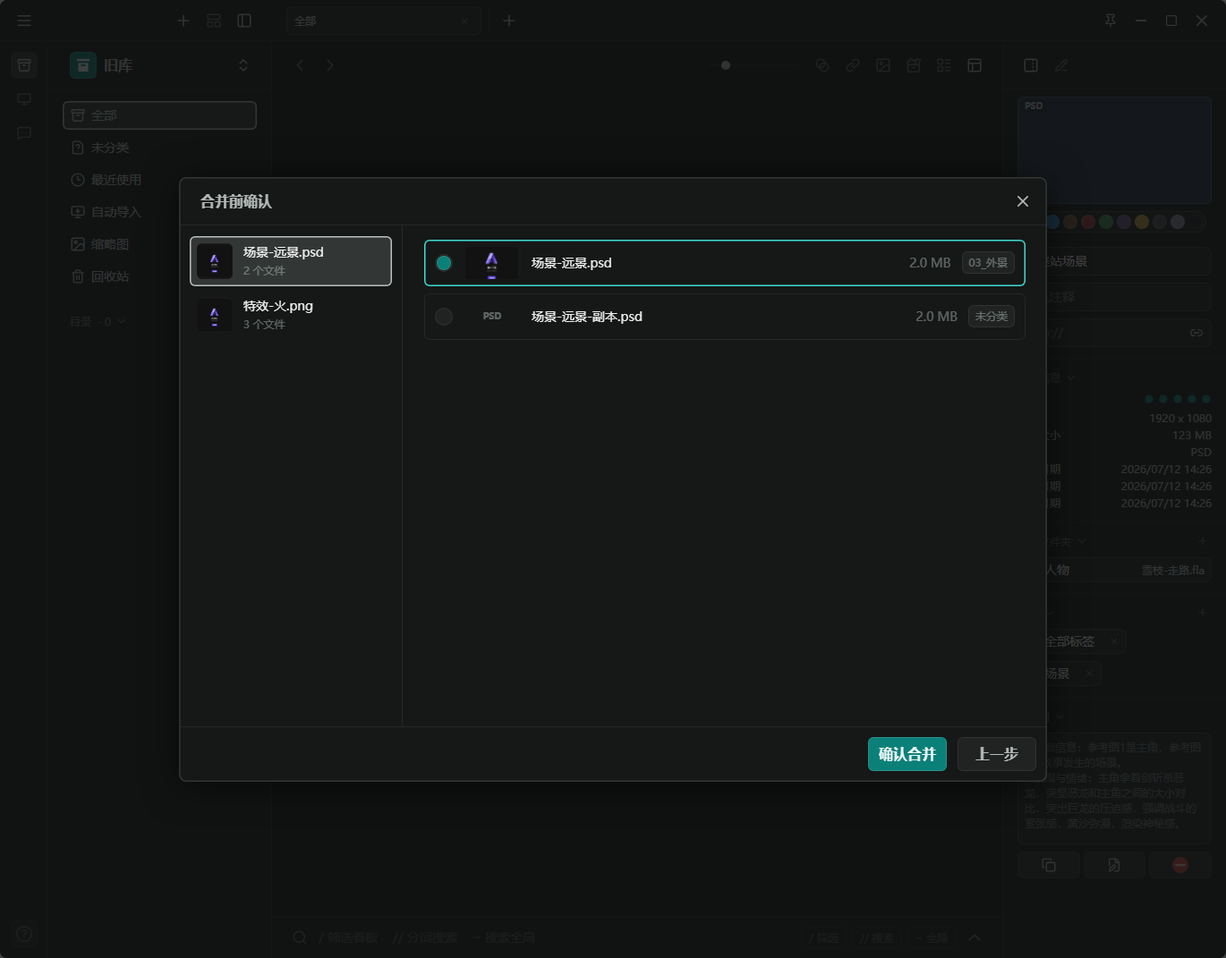
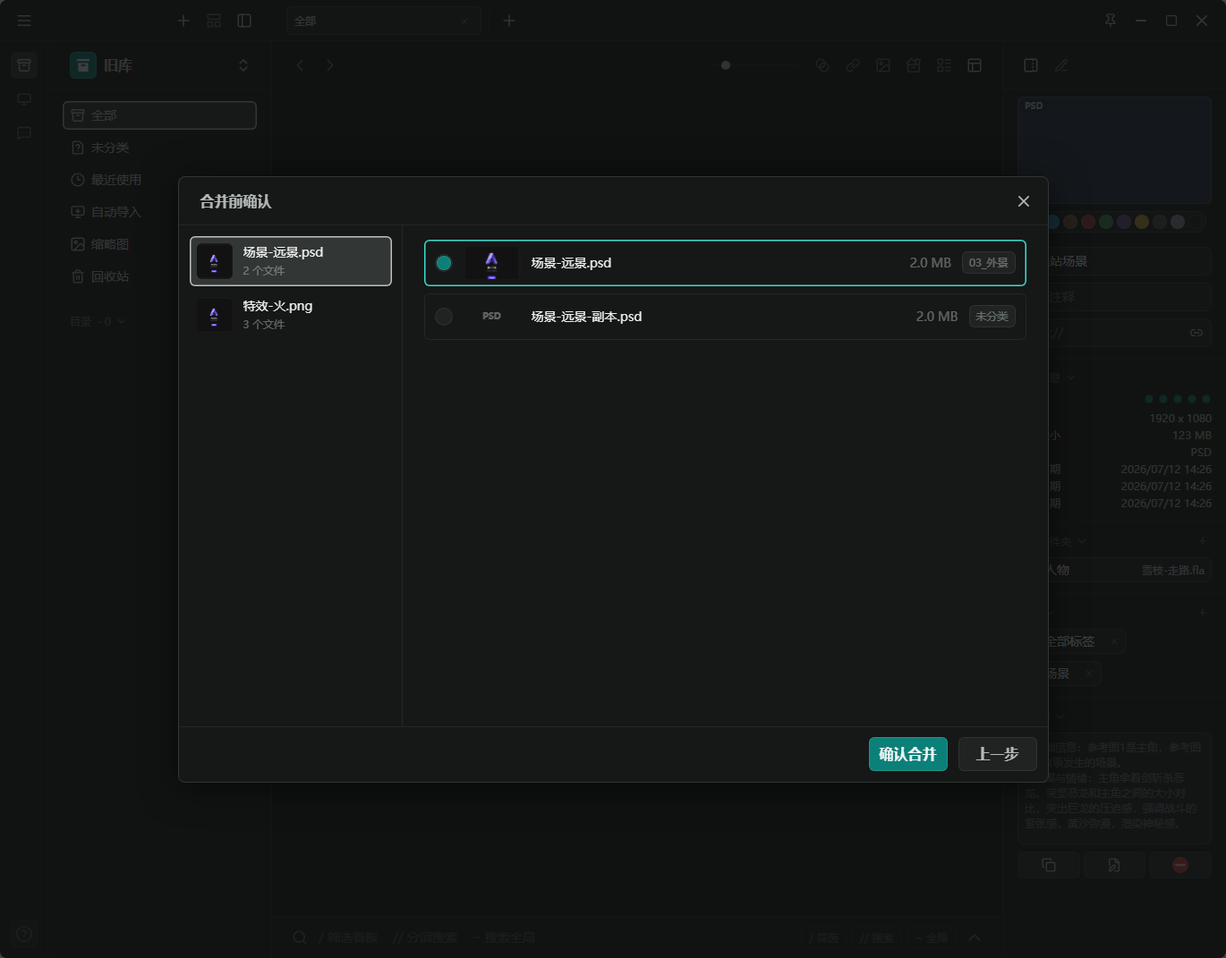
二级窗口1.5外框统一真border（用户定案）：AppModal inset shadow作废，盒模型内缩滚轮不压线，定宽弹窗+3补偿

diff --git a/src/components/DupScanDialog.vue b/src/components/DupScanDialog.vue
@@ -172,18 +172,19 @@ function thumbUrl(a: DupAsset): string | null {
 </template>
 
 <style scoped>
-/* 35 稿壳：714 宽，padding 0（标题栏 / 按钮行贴边）；屏 2 过渡为 970 双栏 */
+/* 35 稿壳：内容宽 714 + 真 border 3 补偿 = 717，padding 0（标题栏 / 按钮行贴边）；
+   屏 2 过渡为 973（内容 970）双栏 */
 .scan-dialog :deep(.app-modal) {
-  width: 714px;
+  width: 717px;
   padding: 0;
   gap: 0;
   transition: width 0.2s ease;
 }
 .scan-dialog.confirm :deep(.app-modal) {
-  width: 970px;
+  width: 973px;
 }
-/* 标题栏（35 稿）：54 高 / padding 12 12 12 24；底线走 ::after 两端留 1.5px
-   （不到弹窗 inset 竖框——横竖两条半透明线十字交叉会双倍叠色，2026-08-13 走查） */
+/* 标题栏（35 稿）：54 高 / padding 12 12 12 24 / 底线通栏（真 border 后横线与竖框不重叠——
+   边框占盒模型在内容区外侧，叠色根因已除，2026-08-13） */
 .scan-dialog :deep(.titlebar) {
   position: relative;
   height: 54px;
@@ -193,8 +194,8 @@ function thumbUrl(a: DupAsset): string | null {
 .scan-dialog :deep(.titlebar)::after {
   content: "";
   position: absolute;
-  left: 1.5px;
-  right: 1.5px;
+  left: 0;
+  right: 0;
   bottom: 0;
   height: 1px;
   background: var(--line-hover);
@@ -213,7 +214,10 @@ function thumbUrl(a: DupAsset): string | null {
   flex: none;
 }
 
-/* 滚动包裹层：relative 锚 ScrollThumb（悬浮滚轮悬停显隐，主窗口统一交互） */
+/* 滚动包裹层：relative 锚 ScrollThumb（悬浮滚轮悬停显隐，主窗口统一交互）。
+   真 border（2026-08-13 用户定）后弹窗边框占盒模型——滚轮贴内容区右缘与边框贴邻不重叠，
+   无需补画右缘线（原 box-shadow inset 时代的 ::after 补线已撤）；左列分隔线仍在内容区内，
+   滚轮会压，由 .list-wrap::after 上层补画 */
 .scroll-wrap,
 .list-wrap,
 .keeper-wrap {
@@ -233,6 +237,18 @@ function thumbUrl(a: DupAsset): string | null {
   flex: 1;
   min-width: 0;
 }
+/* 左列：与右列的 1px 分隔线（暗-悬停）补画在上层（z-index 11 > 滚轮 10，事件穿透） */
+.list-wrap::after {
+  content: "";
+  position: absolute;
+  right: 0;
+  top: 0;
+  bottom: 0;
+  width: 1px;
+  background: var(--line-hover);
+  z-index: 11;
+  pointer-events: none;
+}
 
 /* —— 屏 1：内容自适应 + 上限自滚（原生条隐藏，滚轮 = ScrollThumb 悬浮件）—— */
 .groups-body {
@@ -244,12 +260,12 @@ function thumbUrl(a: DupAsset): string | null {
   display: flex;
   height: min(560px, calc(100vh - 300px));
 }
-/* 左列：250 组列表，右分隔线；容器 padding 12 全边（2026-08-13 用户定）+ gap 4 + item 圆角 6；
+/* 左列：250 组列表；容器 padding 12 全边（2026-08-13 用户定）+ gap 4 + item 圆角 6；
+   与右列的 1px 分隔线由 .list-wrap::after 上层补画（滚轮贴边不压线），此处不再自画；
    滚轮 = ScrollThumb 悬浮件（不占布局，边距即纯 padding，无需凑 gutter） */
 .group-list {
   flex: 1;
   min-height: 0;
-  box-shadow: inset -1px 0 0 0 var(--line-hover);
   display: flex;
   flex-direction: column;
   gap: var(--space-4);
@@ -418,8 +434,7 @@ function thumbUrl(a: DupAsset): string | null {
 }
 
 /* 底部（35 稿）：62 高 / padding 12 12 12 24；flex: 1 撑满 actions 通栏
-   （不撑满上边框线会断在内容左缘，DuplicateDialog 走查同口径）；
-   顶线走 ::after 两端留 1.5px（同标题栏——避开弹窗竖框十字叠色） */
+   （不撑满上边框线会断在内容左缘，DuplicateDialog 走查同口径）；顶线 ::after 通栏 */
 .scan-bottom {
   position: relative;
   display: flex;
@@ -433,8 +448,8 @@ function thumbUrl(a: DupAsset): string | null {
 .scan-bottom::after {
   content: "";
   position: absolute;
-  left: 1.5px;
-  right: 1.5px;
+  left: 0;
+  right: 0;
   top: 0;
   height: 1px;
   background: var(--line-hover);

diff --git a/src/components/AppModal.vue b/src/components/AppModal.vue
@@ -1,6 +1,7 @@
 <script setup lang="ts">
 // 模态窗口骨架（figma-css 08 无关闭按钮 / 09 无标题栏 + 布局稿标准标题栏型 + 27_导入 纯标题型）：
-// 统一 C2 底 + 1.5px 亮-选中边框 + 投影 + 圆角 8，遮罩 C1-80；
+// 统一 C2 底 + 1.5px 亮-选中真 border（2026-08-13 用户定：二级窗口外框统一真 border，
+// 盒模型内缩滚轮不压线，原 inset box-shadow 作废）+ 投影 + 圆角 8，遮罩 C1-80；
 // standard = 标题栏（图标 + 标题 + 关闭 X）→ 内容 → 按钮组；
 // confirm  = 无关闭按钮（figma 08）：padding 24 gap 24、标题栏 30×30 品牌底图标、内容 gap 12、仅确认/取消；
 // plain    = 纯标题（figma 27_导入）：无图标无徽章无关闭 X，标题用常态色（稿 = 文字/常态）；
@@ -87,17 +88,20 @@ onMounted(() => {
   justify-content: center;
   background: var(--c1-80);
 }
-/* 骨架：C2 底 + 1.5px 亮-选中边框 + 投影 + 圆角 8（figma 08/09 与布局稿统一） */
+/* 骨架：C2 底 + 投影 + 圆角 8（figma 08/09 与布局稿统一）；
+   外框 = **真 border**（2026-08-13 用户定，二级窗口 1.5 外框统一改真 border）——
+   占盒模型让内容区天然内缩 1.5px：悬浮滚轮（ScrollThumb）贴内容区右缘也碰不到边框线，
+   与主窗口同机制；原 inset box-shadow 方案（画在内容层）滚轮贴边必压线，作废。
+   定宽弹窗（DuplicateDialog / DupScanDialog）width 已 +3 补偿保持内容宽不变 */
 .app-modal {
   display: flex;
   flex-direction: column;
   gap: var(--space-24);
   padding: var(--space-24);
+  border: var(--border-strong) solid var(--line-active);
   border-radius: var(--radius-8);
   background: var(--c2);
-  box-shadow:
-    inset 0 0 0 var(--border-strong) var(--line-active),
-    var(--shadow-pop);
+  box-shadow: var(--shadow-pop);
   max-width: calc(100vw - 96px);
   max-height: calc(100vh - 96px);
   /* 弹出动画：缩放 + 透明度（00_要求：窗口需要放大和缩小） */

diff --git a/src/components/DupScanGroupRow.vue b/src/components/DupScanGroupRow.vue
@@ -26,8 +26,7 @@ const emit = defineEmits<{ remove: [] }>();
 </template>
 
 <style scoped>
-/* item（35 稿）：padding 24 / gap 12；底线走 ::after 两端留 1.5px
-   （不到弹窗 inset 竖框——横竖半透明线十字交叉双倍叠色，2026-08-13 走查）；
+/* item（35 稿）：padding 24 / gap 12；底线 ::after 通栏（真 border 后与竖框不重叠）；
    最后一组不出底线——否则与底部按钮栏顶线重叠成双线（2026-08-13 走查） */
 .scan-group {
   position: relative;
@@ -40,8 +39,8 @@ const emit = defineEmits<{ remove: [] }>();
 .scan-group::after {
   content: "";
   position: absolute;
-  left: 1.5px;
-  right: 1.5px;
+  left: 0;
+  right: 0;
   bottom: 0;
   height: 1px;
   background: var(--line-hover);

diff --git a/src/components/DuplicateDialog.vue b/src/components/DuplicateDialog.vue
@@ -111,7 +111,7 @@ function onCancel(): void {
 <style scoped>
 /* 36 稿总容器：970×878，padding 0（标题栏 / 按钮行贴边，区块内边距自控） */
 .dup-dialog :deep(.app-modal) {
-  width: 970px;
+  width: 973px; /* 36 稿内容 970 + 真 border 3 补偿（2026-08-13 二级窗口外框改真 border） */
   height: 878px;
   padding: 0;
   gap: 0;
@@ -166,6 +166,8 @@ function onCancel(): void {
   flex: 1;
   min-height: 0;
 }
+/* 注：本弹窗 .content 有 0 24 padding，滚轮距弹窗 inset 边框 24px 不压线，
+   无需像 DupScanDialog 那样 ::after 补画右缘线 */
 .dup-scroll {
   flex: 1;
   min-height: 0;

diff --git a/tools/cdp-scan-duplicates-probe.py b/tools/cdp-scan-duplicates-probe.py
@@ -185,7 +185,7 @@ async def main():
             print("屏 1:", json.dumps(info, ensure_ascii=False))
             if info["title"] != "扫描重复文件":
                 fails.append(f"屏1标题 {info['title']}")
-            if info["width"] != 714:
+            if info["width"] != 717:  # 内容 714 + 真 border 3（2026-08-13 二级窗口外框改真 border）
                 fails.append(f"屏1宽 {info['width']}")
             if info["groups"] != 3:
                 fails.append(f"组数 {info['groups']}")
@@ -254,7 +254,7 @@ async def main():
             print("屏 2:", json.dumps(info3, ensure_ascii=False))
             if info3["title"] != "合并前确认":
                 fails.append(f"屏2标题 {info3['title']}")
-            if info3["width"] != 970:
+            if info3["width"] != 973:  # 内容 970 + 真 border 3
                 fails.append(f"屏2宽 {info3['width']}")
             if info3["groupItems"] != 2:
                 fails.append(f"屏2组数 {info3['groupItems']}")

diff --git a/docs/04_开发日志/2026-08-13.md b/docs/04_开发日志/2026-08-13.md
@@ -28,6 +28,6 @@
 
 - **2.7 一轮：DuplicateDialog 按 36_重复文件提示稿全量重写（feat/new-ui）**。旧逐个询问弹窗（10_重复添加提示旧体系）整文件重写为 36 稿 970×878 全量布局：AppModal standard 壳（标题栏 54 + 关闭 X）+ 表头双列（已存在文件 / 新的文件）+ 冲突行列表（行 = 左右对照卡片 449×69——缩略图 80×45 / 名称 / 大小 / 所在位置标签，已存在 C4 底、新的文件 C2 底选"作为新文件导入"变 C4；radio 三选一默认"作为新链接导入"；行尾"跳过此文件"开关可逆、跳过行 30% 压暗且行内控件禁用）+ 底部内嵌批量重命名（37 稿：分段"序号命名 / 替换命名"单显一行输入——序号 = 名称 + 起始编号位宽自动、替换 = 查找文本 + 替换为纯文本，规则只作用词干实时驱动各行新名预览）+ 全部跟随开关（默认开：改一行 radio/跳过全部行跟随，关掉逐行精调；重命名为全局面板不参与跟随）。确认 = 逐行组装 ConflictResolution 一次提交（跳过行 action=skip）；取消/关闭/遮罩 = 全部跳过纯前端清队列（源文件从未动过）。组件拆分：DuplicateDialog（壳 + 决策/重命名状态）+ DuplicateRow（行卡片）+ DuplicateRenameBar（重命名输入行）。**后端新名支持**：`ConflictResolution.link_name` 收敛改名为 `new_name`（camelCase newName，serde default）——copy / link 均按它做导入后显示名（只影响显示名不动 hash 判定与磁盘存储名），序列帧 copy 重新打包分支同步用新名词干（帧文件归一名 + Placement 显示名）；useExisting / skip 忽略。前端唯一调用点同步（content.ts `newName`）。新测试 2 用例（copy 用 newName 显示名且 origin_name 不动 / 序列帧 copy 新词干重打包），cargo test 264 全绿；vue-tsc / build 全绿。CDP 探针实证（tools/cdp-duplicate-dialog-probe.py，Channel 桩 transformCallback 存表 + import_paths 捕获 onEvent.id 主动推 `{index,message}` 包装帧）：弹窗 970×878 / 三行渲染 / 默认 radio / 全部跟随两态 / 跳过压暗 0.3 / 序号预览（场景-2.png）/ 确认提交 items 含 newName / 取消不调命令——PASS，截图 tools/style-preview/duplicate-dialog.png。07 接口文档 resolve_conflicts 同步。
 
-- **2.7 二轮：扫描重复文件（feat/new-ui，35_扫描重复文件稿 + Eagle 式合并前确认，用户两轮定案）**。**语义定案**：按存量 metadata.hash 分组 ≥2 个不同资产成组、按资产去重（多链接不重复列）、卡片取 origin Placement（35 稿"只扫描原始文件"）；屏 1 组级复选**默认全选**、行尾红色 ⊖ = **从列表移除该组**（用户定：纯前端不动文件）；点合并进**屏 2「合并前确认」**（Eagle 式两步，用户定）：左列组列表 + 右列保留者 radio 单选横条（缩略图/名称/大小/所在文件夹标签），**默认选中 = 导入最早**（importedAt 升序 assets[0]，用户定：不按数据量）；合并 = 落选资产含全部 Placement 一次 `delete_placements` "recycle" 移回收站（undo 一步）。**范围三口径（锚点过滤：组内任一资产命中整组返回）**：汉堡"查找"= 全部；新增菜单二级 = 当前目录（快速访问视图禁用）/ 全部 / 所选文件（无选中禁用）。**后端**：`services/scan.rs` 纯逻辑（空 hash / 无 Placement 资产跳过、origin 兜底第一条、组内 importedAt 升序平手 id、组间 (n-1)×size 降序、folderName root→"未分类"、缩略图复用 views::thumb_path + lib.format_icons）+ `commands/scan.rs` 只读命令（不走 undo），新测试 6 用例（分组/同资产去重/两范围锚点/排序/serde 回归）。**前端**：`dupScanOps.ts`（两步状态 + 菜单入口 + 合并执行）+ DupScanDialog（壳两态 714↔970 过渡）/ DupScanGroupRow（行）/ DupScanCard（327 静态卡）三组件；formatSize 提取 `lib/formatSize.ts` 共用；AppModal standard 加 `#titlebar-start` 插槽（屏 2 返回箭头 = chevron-large 旋转 180°）。**实机一修（用户报"当前目录"报错）**：serde 内部 tag 枚举 `rename_all` 只改变体名不改字段名，`Folder.folder_id` 等成蛇形 → `rename_all_fields = "camelCase"` 成对 + JSON 反序列化回归用例（踩坑 031）。**走查一修（截图目验）**：弹窗纵向自绘 6px 滚动条占宽把卡片行压成 660 → 两张卡 666 微溢出恒出横向条（与 35 稿">2 张才出横条"不符），改回弹窗口径隐藏可滚（同 DuplicateDialog）。**走查四修（用户实机截图反馈）**：① 标题高亮 → 常态色（35 稿与通用弹窗同口径，同 DuplicateDialog 做法）；② 末组 bottom 分隔线与底部按钮栏 top 线重叠成双线 → `.scan-group:last-child` 去底线；③ 标题栏返回箭头与底部"上一步"重复 → 撤返回钮恢复通用标题栏，AppModal `#titlebar-start` 插槽同日回滚（无其他用例）；④ 屏 2 左列组列表 item 圆角 6 + 容器 padding 8 / gap 4。**走查五修（用户二轮截图：滚轮与 hover 基础设施）**：① **滚轮统一**——base.css 新增 `.kit-scroll` / `.kit-scroll-x` 公共类（用户定：滚动区域**恒可见滚轮**——滚轮/触摸板失灵仍可用；且滚轮出现**不得挤压内容**）——纵向 6px 胶囊 + `scrollbar-gutter: stable` 恒占防跳动、横向容器自留 padding；扫描弹窗三容器（groups-body / group-list / keeper-list）+ 冲突弹窗 dup-scroll 全部接入，组行 / 右列右 padding 各减 6 补偿 gutter（保卡片行恒 666）；② 左列 item padding 改四周 8；③ 左列 item 补 hover（暗-悬停罩层）+ 选中态改亮-选中罩层 + 暗-悬停 1px 线条（树 item 强度阶梯同口径，原 C4 实心不明显），容器 padding 12 给滚轮留位；④ 冲突弹窗补滚轮（原隐藏）；⑤ **弹窗内 item 底色 C3 → C2**（用户定：与二级窗口一致靠线条分层——DuplicateRow 36 稿行底与 keeper-item 同改）；顺手补 keeper-item / group-item 的 hover 与 cursor；探针加滚轮断言（屏 1 溢出 987>791 / gutter 恒占 6 / 两卡组不横滚）重跑 PASS；02 组件目录新增"滚动条"节。**走查七修（用户三轮截图四点）**：⑦ **滚轮防覆盖**：弹窗 1.5px inset 边框盖住贴右缘的滚轮——`.kit-scroll` thumb 加右 1.5px 透明让位（`background-clip: padding-box`，重复文件提示 dup-scroll 同类同修）；⑧ 右列 keeper-item 选中态时 hover 不再变色（`:not(.on):hover`，选中由品牌描边表达）；⑨ 屏 1 取消勾选行卡片压暗 30%（库内"跳过/压暗"统一口径，同 DuplicateRow skipped / 35 稿注释——用户误记 20%，证据：tokens 无 0.2 档、DuplicateRow 为 0.3）；⑩ 缩略图圆角核对 = 6（容器本就是 radius-6 + overflow 裁剪），三处 img 补显式圆角双保险。**走查八修（用户四轮截图三点 + 一个通用问题）**：⑪ 屏 2 左列 item 选中态对齐目录树（亮-选中罩层 + **1.5px 文字常态内阴影**，原 1px 暗-悬停线）+ 左右间距对称（容器右 padding 12→6 补偿 gutter）；⑫ **滚轮体系定稿（通用）**——六轮迭代后落地**悬浮滚轮 + 悬停显隐**（主窗口 2026-08-10 定案"持久存在视觉噪音"的既有交互，用户六轮实机点破"主窗口就没有这些问题"后对齐）：新组件 `ScrollThumb.vue`（封装 useSideThumb，hover 态自管、实色 C4/C5、absolute 贴右 right:0 不占布局——初版距右 2px，用户定与主窗口 side-thumb 贴边统一）+ 扫描弹窗三容器 / 冲突弹窗 dup-scroll 接入；横向滚动区保留原生 6px 实色胶囊（.kit-scroll-x，不贴边框无叠色场景）。**"恒可见滚轮"口径澄清**：落地形态 = 鼠标在面板上滚轮即显可拖（滚轮坏了也能用），非持久恒显。**连带修复**：`useSideThumb` 初始化改 `watch` 驱动（模板 ref 经 props 传值时填充晚于子组件 mounted，onMounted 一次性初始化会永远 show=false——CDP 调试属性直读组件态定位）；**通栏线十字叠色**——横分隔线（组行底线 / 标题栏底线 / 底部栏顶线）改 ::after 两端留 1.5px 不到弹窗 inset 竖框（横 --line-hover × 竖 --line-active 异色叠色根因）。**边距还原**：gutter 占位废除，group-list / keeper-list / scan-group padding 回纯值（用户质疑"6+6 凑 12"——主窗口网格边距本就是纯 16 无凑，凑法即 gutter 异味）。**淘汰四案全记录**：gutter 恒显（占布局挡线）→ thumb 透明让位 hack（WebView2 不可靠，红色染色实证）→ 容器 border-right 占位（顶断通栏线 + 透明线交叉叠两次透明度）→ thumb 实色贴边（挡 inset 边框线）；`box-shadow` 推不开滚轮（不占布局也不影响滚动条位置，向用户澄清）；⑬ **详情面板滚轮无法选中**——CDP 命中测试实证：悬浮滚轮贴窗口右缘与 8px resize 热区几乎全重叠，鼠标从右缘外够滚轮时命中测试落在热区 → aside mouseenter 不触发 → 滚轮保持透明 pointer-events:none → 按下被抢成窗口拉伸；resize-zone.e 热区 8→3px 让滚轮左 3px 露出，hover 激活链恢复（hit-test 实证）。探针重跑 PASS。cargo test 278 / vue-tsc / build 全绿；CDP 探针全项 PASS（tools/cdp-scan-duplicates-probe.py：汉堡点击链触发、714/3 组/默认全选/计数 7 文件 4.0MB/组 C 横滚/红钮移除/屏 2 默认保留者 a1/改选/合并 payload 含链接 placement origin:false/取消不写命令；截图 scan-duplicates.png + scan-duplicates-confirm.png 目验贴稿）。PRD 03_查找文件 新增 03 节 + 00 总览 3.5 / 07 接口文档 / 02 组件目录同步；"扫描文件/档案链接"复用样式记 09 待办立项。
+- **2.7 二轮：扫描重复文件（feat/new-ui，35_扫描重复文件稿 + Eagle 式合并前确认，用户两轮定案）**。**语义定案**：按存量 metadata.hash 分组 ≥2 个不同资产成组、按资产去重（多链接不重复列）、卡片取 origin Placement（35 稿"只扫描原始文件"）；屏 1 组级复选**默认全选**、行尾红色 ⊖ = **从列表移除该组**（用户定：纯前端不动文件）；点合并进**屏 2「合并前确认」**（Eagle 式两步，用户定）：左列组列表 + 右列保留者 radio 单选横条（缩略图/名称/大小/所在文件夹标签），**默认选中 = 导入最早**（importedAt 升序 assets[0]，用户定：不按数据量）；合并 = 落选资产含全部 Placement 一次 `delete_placements` "recycle" 移回收站（undo 一步）。**范围三口径（锚点过滤：组内任一资产命中整组返回）**：汉堡"查找"= 全部；新增菜单二级 = 当前目录（快速访问视图禁用）/ 全部 / 所选文件（无选中禁用）。**后端**：`services/scan.rs` 纯逻辑（空 hash / 无 Placement 资产跳过、origin 兜底第一条、组内 importedAt 升序平手 id、组间 (n-1)×size 降序、folderName root→"未分类"、缩略图复用 views::thumb_path + lib.format_icons）+ `commands/scan.rs` 只读命令（不走 undo），新测试 6 用例（分组/同资产去重/两范围锚点/排序/serde 回归）。**前端**：`dupScanOps.ts`（两步状态 + 菜单入口 + 合并执行）+ DupScanDialog（壳两态 714↔970 过渡）/ DupScanGroupRow（行）/ DupScanCard（327 静态卡）三组件；formatSize 提取 `lib/formatSize.ts` 共用；AppModal standard 加 `#titlebar-start` 插槽（屏 2 返回箭头 = chevron-large 旋转 180°）。**实机一修（用户报"当前目录"报错）**：serde 内部 tag 枚举 `rename_all` 只改变体名不改字段名，`Folder.folder_id` 等成蛇形 → `rename_all_fields = "camelCase"` 成对 + JSON 反序列化回归用例（踩坑 031）。**走查一修（截图目验）**：弹窗纵向自绘 6px 滚动条占宽把卡片行压成 660 → 两张卡 666 微溢出恒出横向条（与 35 稿">2 张才出横条"不符），改回弹窗口径隐藏可滚（同 DuplicateDialog）。**走查四修（用户实机截图反馈）**：① 标题高亮 → 常态色（35 稿与通用弹窗同口径，同 DuplicateDialog 做法）；② 末组 bottom 分隔线与底部按钮栏 top 线重叠成双线 → `.scan-group:last-child` 去底线；③ 标题栏返回箭头与底部"上一步"重复 → 撤返回钮恢复通用标题栏，AppModal `#titlebar-start` 插槽同日回滚（无其他用例）；④ 屏 2 左列组列表 item 圆角 6 + 容器 padding 8 / gap 4。**走查五修（用户二轮截图：滚轮与 hover 基础设施）**：① **滚轮统一**——base.css 新增 `.kit-scroll` / `.kit-scroll-x` 公共类（用户定：滚动区域**恒可见滚轮**——滚轮/触摸板失灵仍可用；且滚轮出现**不得挤压内容**）——纵向 6px 胶囊 + `scrollbar-gutter: stable` 恒占防跳动、横向容器自留 padding；扫描弹窗三容器（groups-body / group-list / keeper-list）+ 冲突弹窗 dup-scroll 全部接入，组行 / 右列右 padding 各减 6 补偿 gutter（保卡片行恒 666）；② 左列 item padding 改四周 8；③ 左列 item 补 hover（暗-悬停罩层）+ 选中态改亮-选中罩层 + 暗-悬停 1px 线条（树 item 强度阶梯同口径，原 C4 实心不明显），容器 padding 12 给滚轮留位；④ 冲突弹窗补滚轮（原隐藏）；⑤ **弹窗内 item 底色 C3 → C2**（用户定：与二级窗口一致靠线条分层——DuplicateRow 36 稿行底与 keeper-item 同改）；顺手补 keeper-item / group-item 的 hover 与 cursor；探针加滚轮断言（屏 1 溢出 987>791 / gutter 恒占 6 / 两卡组不横滚）重跑 PASS；02 组件目录新增"滚动条"节。**走查七修（用户三轮截图四点）**：⑦ **滚轮防覆盖**：弹窗 1.5px inset 边框盖住贴右缘的滚轮——`.kit-scroll` thumb 加右 1.5px 透明让位（`background-clip: padding-box`，重复文件提示 dup-scroll 同类同修）；⑧ 右列 keeper-item 选中态时 hover 不再变色（`:not(.on):hover`，选中由品牌描边表达）；⑨ 屏 1 取消勾选行卡片压暗 30%（库内"跳过/压暗"统一口径，同 DuplicateRow skipped / 35 稿注释——用户误记 20%，证据：tokens 无 0.2 档、DuplicateRow 为 0.3）；⑩ 缩略图圆角核对 = 6（容器本就是 radius-6 + overflow 裁剪），三处 img 补显式圆角双保险。**走查八修（用户四轮截图三点 + 一个通用问题）**：⑪ 屏 2 左列 item 选中态对齐目录树（亮-选中罩层 + **1.5px 文字常态内阴影**，原 1px 暗-悬停线）+ 左右间距对称（容器右 padding 12→6 补偿 gutter）；⑫ **滚轮体系定稿（通用）**——六轮迭代后落地**悬浮滚轮 + 悬停显隐**（主窗口 2026-08-10 定案"持久存在视觉噪音"的既有交互，用户六轮实机点破"主窗口就没有这些问题"后对齐）：新组件 `ScrollThumb.vue`（封装 useSideThumb，hover 态自管、实色 C4/C5、absolute 贴右 right:0 不占布局——初版距右 2px，用户定与主窗口 side-thumb 贴边统一）+ 扫描弹窗三容器 / 冲突弹窗 dup-scroll 接入；横向滚动区保留原生 6px 实色胶囊（.kit-scroll-x，不贴边框无叠色场景）。**"恒可见滚轮"口径澄清**：落地形态 = 鼠标在面板上滚轮即显可拖（滚轮坏了也能用），非持久恒显。**连带修复**：`useSideThumb` 初始化改 `watch` 驱动（模板 ref 经 props 传值时填充晚于子组件 mounted，onMounted 一次性初始化会永远 show=false——CDP 调试属性直读组件态定位）；**通栏线十字叠色**——横分隔线（组行底线 / 标题栏底线 / 底部栏顶线）改 ::after 两端留 1.5px 不到弹窗 inset 竖框（横 --line-hover × 竖 --line-active 异色叠色根因）。**边距还原**：gutter 占位废除，group-list / keeper-list / scan-group padding 回纯值（用户质疑"6+6 凑 12"——主窗口网格边距本就是纯 16 无凑，凑法即 gutter 异味）。**淘汰四案全记录**：gutter 恒显（占布局挡线）→ thumb 透明让位 hack（WebView2 不可靠，红色染色实证）→ 容器 border-right 占位（顶断通栏线 + 透明线交叉叠两次透明度）→ thumb 实色贴边（挡 inset 边框线）；`box-shadow` 推不开滚轮（不占布局也不影响滚动条位置，向用户澄清）。**终局结构修（用户定案）**：① ScrollThumb 贴边 right:0（与主窗口 side-thumb 统一）；② **二级窗口 1.5 外框统一改真 border**（AppModal inset box-shadow 作废——盒模型内缩使滚轮贴内容区右缘与边框贴邻不重叠，主窗口同机制；定宽弹窗 714/970 → 717/973 补偿保持内容宽，探针断言同步；横分隔线 ::after 留空撤销恢复通栏——竖框不再画在内容区，十字叠色根因消除；wrap 补画右缘线伪元素同步撤，左列分隔线补画保留）；⑬ **详情面板滚轮无法选中**——CDP 命中测试实证：悬浮滚轮贴窗口右缘与 8px resize 热区几乎全重叠，鼠标从右缘外够滚轮时命中测试落在热区 → aside mouseenter 不触发 → 滚轮保持透明 pointer-events:none → 按下被抢成窗口拉伸；resize-zone.e 热区 8→3px 让滚轮左 3px 露出，hover 激活链恢复（hit-test 实证）。探针重跑 PASS。cargo test 278 / vue-tsc / build 全绿；CDP 探针全项 PASS（tools/cdp-scan-duplicates-probe.py：汉堡点击链触发、714/3 组/默认全选/计数 7 文件 4.0MB/组 C 横滚/红钮移除/屏 2 默认保留者 a1/改选/合并 payload 含链接 placement origin:false/取消不写命令；截图 scan-duplicates.png + scan-duplicates-confirm.png 目验贴稿）。PRD 03_查找文件 新增 03 节 + 00 总览 3.5 / 07 接口文档 / 02 组件目录同步；"扫描文件/档案链接"复用样式记 09 待办立项。
 
 - **拖拽僵尸会话修复（用户实机"树/快速访问点不动、双选中，重启解决"根因，feat/new-ui）**：**根因**——拖拽引擎 begin() 无 pointer capture：item 按下后鼠标划出窗口松手 pointerup 丢失，sess 变僵尸（onWindowBlur 兜底只在窗口失焦触发，划出划回不失焦即漏）；僵尸 sess 被后续按下经 `if (sess) return` 静默复用，移动超 6px 阈值误 startDrag——① suppressClick 吞 click（点不动；原地双击位移小不触发故"双击才行"）② startDrag 内 clickFolder 误入域 + openView 等值 return 分支不清域（双选中残留）③ 严重时静默执行 drop 移动文件。全程内存态，重启即清，与用户"莫名其妙"完全吻合。**三道防线**：begin 对按下的卡片/树 item 根元素 setPointerCapture（治本——窗外松手 up 也能收到；capture 到自身根不影响 click 派发，切勿 capture 到 documentElement——共同祖先变根会吞掉纯 click）+ onMove 首行 `(e.buttons & 1) === 0` 立即 endDrag(true) 自清 + begin 里 sess 存在先取消再建新（不静默复用）。次要路径：FolderTree `nextTick(clickFolder)` 加 `sidebarSelected === folder:id` 守卫（连点"树 item → 快速访问"同 tick 切走不再误入域残留描边）。踩坑 032。CDP 回归探针 9 项全 PASS（tools/cdp-drag-zombie-probe.py：基线点击 / buttons=0 自清 / begin 不复用 / 无域残留 / 真实拖拽 move_folders 留痕且落点后 click 恢复 / capture 不破坏纯点击；截图 drag-zombie-probe.png）。vue-tsc 零错误。cargo test 278 / vue-tsc / build 全绿；CDP 探针全项 PASS（tools/cdp-scan-duplicates-probe.py：汉堡点击链触发、714/3 组/默认全选/计数 7 文件 4.0MB/组 C 横滚/红钮移除/屏 2 默认保留者 a1/改选/合并 payload 含链接 placement origin:false/取消不写命令；截图 scan-duplicates.png + scan-duplicates-confirm.png 目验贴稿）。PRD 03_查找文件 新增 03 节 + 00 总览 3.5 / 07 接口文档 / 02 组件目录同步；"扫描文件/档案链接"复用样式记 09 待办立项。

diff --git a/docs/05_项目进度/00_当前状态.md b/docs/05_项目进度/00_当前状态.md
@@ -4,7 +4,7 @@
 
 - **拖拽僵尸会话修复（2026-08-13，feat/new-ui，用户实机"树/快速访问点不动、双选中，重启解决"）**：根因 = 拖拽引擎 begin() 无 pointer capture——item 按下后鼠标划出窗口松手 pointerup 丢失，sess 变僵尸（blur 兜底只在失焦触发），后续按下被 `if (sess) return` 静默复用 → 移动超阈值误 startDrag：suppressClick 吞 click（点不动、双击才行）+ clickFolder 误入域（双选中残留）+ 严重时静默 drop 移动文件。**三道防线**：begin 对卡片/树 item 根元素 setPointerCapture（治本，勿 capture 到 documentElement——会吞纯 click）+ onMove 首行 buttons 活性检查立即自清 + begin 先取消旧 sess 再建新；次要路径 FolderTree nextTick 入域加 sidebarSelected 守卫。踩坑 032；CDP 回归探针 9 项全 PASS（tools/cdp-drag-zombie-probe.py 含真实拖拽不误伤），vue-tsc 零错误。
 
-- **阶段二 2.7 二轮已落地（2026-08-13，feat/new-ui）**：**扫描重复文件**（35_扫描重复文件稿 + Eagle 式合并前确认，用户两轮定案：红钮 = 从列表移除组不动文件；默认保留者 = 导入最早不按数据量）——屏 1 结果列表（714：组级复选默认全选 / 红色 ⊖ 移除组 / 卡片 327 横排超 2 横滚 / 底部计数 + 可节约 + 合并/取消）→ 屏 2 合并前确认（970：左组列表 + 右保留者 radio 单选，确认合并 / 上一步）；合并 = 落选资产含全部 Placement 一次 `delete_placements` "recycle"（undo 一步）。后端 `services/scan.rs` + 只读命令 `scan_duplicates(scope)`（存量 hash 分组 ≥2、按资产去重、锚点过滤整组返回、组内 importedAt 升序、组间 (n-1)×size 降序）；前端 `dupScanOps.ts` + DupScanDialog / DupScanGroupRow / DupScanCard + formatSize 提取 lib 共用；菜单点亮 = 汉堡"查找"（全部）+ 新增菜单三范围（当前目录 / 全部 / 所选文件）。**实机一修**：serde 内部 tag 枚举 rename_all 不改字段名 → rename_all_fields 成对 + 回归用例（踩坑 031）；**走查五修**：纵向自绘滚动条占宽致两卡组恒出横条 → 弹窗纵向隐藏可滚；标题高亮 → 常态色；末组底线与按钮栏顶线重叠 → :last-child 去线；标题栏返回钮与"上一步"重复 → 撤除（AppModal 插槽同日回滚）；屏 2 左列 item 圆角 6 + 容器 padding 8 gap 4。**走查六修（滚轮与 hover 基础设施）**：base.css 统一滚动条 `.kit-scroll` / `.kit-scroll-x`（恒可见滚轮 + gutter 恒占防挤压，内容右 padding 减 6 补偿）——扫描弹窗三容器 + 冲突弹窗接入；左列 item padding 四周 8 + hover 暗-悬停罩层 + 选中亮-选中罩层加暗-悬停线条 + 容器 padding 12；弹窗内 item 底色 C3→C2（与二级窗口一致，36 稿行同改）；02 组件目录新增滚动条节。**走查七修**：kit-scroll thumb 右 1.5px 透明让位防弹窗 inset 边框盖滚轮；keeper-item 选中态 hover 不变色；屏 1 取消勾选行卡片压暗 30%（库内统一口径，非 20%）；缩略图圆角核对 = 6 并 img 补显式圆角。**走查八修**：左列选中态对齐目录树（亮-选中罩层 + 1.5px 文字常态线）+ 左右间距对称（右 padding 6 补偿 gutter）；滚轮体系定稿 = 悬浮滚轮 + 悬停显隐（主窗口 2026-08-10 既有交互对齐：新组件 ScrollThumb 封装 useSideThumb，实色 C4/C5、absolute 贴右 right:0 不占布局；"恒可见"口径 = 鼠标在面板上即显可拖；useSideThumb 初始化 watch 化修 props 传值 show 永 false；通栏横线改 ::after 两端留 1.5px 避开弹窗竖框十字叠色；gutter 占位与 6+6 凑边距全废，padding 回纯值）；详情面板滚轮无法选中 = resize 热区 8px 遮挡 aside hover 激活链（CDP hit-test 实证），resize-zone.e 收窄 3px。cargo test 278 / vue-tsc / build 全绿；CDP 探针全项 PASS（tools/cdp-scan-duplicates-probe.py + 双截图目验贴稿）。PRD 03_查找文件 03 节 / 00 总览 3.5 / 07 接口文档 / 02 组件目录同步；"扫描文件/档案链接"复用样式记 09 待办立项。
+- **阶段二 2.7 二轮已落地（2026-08-13，feat/new-ui）**：**扫描重复文件**（35_扫描重复文件稿 + Eagle 式合并前确认，用户两轮定案：红钮 = 从列表移除组不动文件；默认保留者 = 导入最早不按数据量）——屏 1 结果列表（714：组级复选默认全选 / 红色 ⊖ 移除组 / 卡片 327 横排超 2 横滚 / 底部计数 + 可节约 + 合并/取消）→ 屏 2 合并前确认（970：左组列表 + 右保留者 radio 单选，确认合并 / 上一步）；合并 = 落选资产含全部 Placement 一次 `delete_placements` "recycle"（undo 一步）。后端 `services/scan.rs` + 只读命令 `scan_duplicates(scope)`（存量 hash 分组 ≥2、按资产去重、锚点过滤整组返回、组内 importedAt 升序、组间 (n-1)×size 降序）；前端 `dupScanOps.ts` + DupScanDialog / DupScanGroupRow / DupScanCard + formatSize 提取 lib 共用；菜单点亮 = 汉堡"查找"（全部）+ 新增菜单三范围（当前目录 / 全部 / 所选文件）。**实机一修**：serde 内部 tag 枚举 rename_all 不改字段名 → rename_all_fields 成对 + 回归用例（踩坑 031）；**走查五修**：纵向自绘滚动条占宽致两卡组恒出横条 → 弹窗纵向隐藏可滚；标题高亮 → 常态色；末组底线与按钮栏顶线重叠 → :last-child 去线；标题栏返回钮与"上一步"重复 → 撤除（AppModal 插槽同日回滚）；屏 2 左列 item 圆角 6 + 容器 padding 8 gap 4。**走查六修（滚轮与 hover 基础设施）**：base.css 统一滚动条 `.kit-scroll` / `.kit-scroll-x`（恒可见滚轮 + gutter 恒占防挤压，内容右 padding 减 6 补偿）——扫描弹窗三容器 + 冲突弹窗接入；左列 item padding 四周 8 + hover 暗-悬停罩层 + 选中亮-选中罩层加暗-悬停线条 + 容器 padding 12；弹窗内 item 底色 C3→C2（与二级窗口一致，36 稿行同改）；02 组件目录新增滚动条节。**走查七修**：kit-scroll thumb 右 1.5px 透明让位防弹窗 inset 边框盖滚轮；keeper-item 选中态 hover 不变色；屏 1 取消勾选行卡片压暗 30%（库内统一口径，非 20%）；缩略图圆角核对 = 6 并 img 补显式圆角。**走查八修**：左列选中态对齐目录树（亮-选中罩层 + 1.5px 文字常态线）+ 左右间距对称（右 padding 6 补偿 gutter）；滚轮体系定稿 = 悬浮滚轮 + 悬停显隐（主窗口 2026-08-10 既有交互对齐：新组件 ScrollThumb 封装 useSideThumb，实色 C4/C5、absolute 贴右 right:0 不占布局；"恒可见"口径 = 鼠标在面板上即显可拖；useSideThumb 初始化 watch 化修 props 传值 show 永 false；gutter 占位与 6+6 凑边距全废，padding 回纯值）+ **二级窗口 1.5 外框统一真 border**（用户定案：AppModal inset box-shadow 作废，盒模型内缩滚轮贴边不压线；定宽弹窗 width +3 补偿；横分隔线恢复通栏——十字叠色根因消除）；详情面板滚轮无法选中 = resize 热区 8px 遮挡 aside hover 激活链（CDP hit-test 实证），resize-zone.e 收窄 3px。cargo test 278 / vue-tsc / build 全绿；CDP 探针全项 PASS（tools/cdp-scan-duplicates-probe.py + 双截图目验贴稿）。PRD 03_查找文件 03 节 / 00 总览 3.5 / 07 接口文档 / 02 组件目录同步；"扫描文件/档案链接"复用样式记 09 待办立项。
 
 - **"在文件管理器中打开"换危险弹出模板（2026-08-13，用户定）**：ConfirmPrompt 加 `alert?: "warning" | "error"`，AppConfirm 按它切 AppModal alert 变体（figma 09：48 警告徽章 + 提示音）；首个用例 = revealWithWarning，其余 confirmPrompt 维持 plain。**同日走查两修**：弹窗按钮序统一主左次右（App / LibraryView / FolderPickerDialog / LinkDialog / RecycleConfirmDialog 五处纠正，约定入 02 组件目录）；删除资源库弹窗孤儿素材复选框与正文拉开 12。**复选框抖动修复**（踩坑 030）：对勾 v-if 摘挂 → 空 flex 容器基线漂移 → 弹窗跳 1px，改常驻 DOM 切 opacity。vue-tsc 零错误。
 

diff --git a/docs/02_样式与布局/02_通用组件/00_组件目录.md b/docs/02_样式与布局/02_通用组件/00_组件目录.md
@@ -9,7 +9,7 @@ tags:
   - 目录
   - 组件
 ---
-> **2026-08-07 状态：通用组件已按新 figma-css（`docs/00_修改与需求/03_新样式/01_figma-css/01_组件/`）封装进 `src/components/`**——IconButton（大/小/红色删除）/ AppButton（primary·panel·sidebar）/ AppSegmented（切换按钮大小两档）/ AppTag（属性标签）/ AppSwitch（34×18）/ AppCheckbox（14）/ AppRadio（20，弹出回弹 / 收回缓入）/ AppInput（小中大）/ AppSearchBar / KbdBadge（快捷键徽章）/ ToastStack（通知栏）/ TreeItem（root·child·archive·quick 四形态 + tint 自定义色）/ MenuItem / MenuDivider / SectionHeader（区块·分组标题）/ AppMenu（菜单容器）/ AppModal（standard·confirm·alert·plain 四形态——plain = 27_导入 纯标题型：无图标无徽章无 X、标题常态色，2026-08-12；**遮罩点击一律不关闭**——2026-08-13 用户定案：所有模态框禁点空白退出防丢上下文，原 maskClose 机制连同导入链路的 mask-close=false 一并移除；**按钮组统一主左次右**（确认 / 删除 / 开启等主按钮在左、取消在右，2026-08-13 统一：App / LibraryView / FolderPickerDialog / LinkDialog / RecycleConfirmDialog 五处纠正））。旧体系组件文档与 `03_UI 布局/` 已于 2026-08-07 清除（git 历史可查）；本目录文档随组件重构逐份补写（figma-css 为准，md 只写 figma 没有的规则）。
+> **2026-08-07 状态：通用组件已按新 figma-css（`docs/00_修改与需求/03_新样式/01_figma-css/01_组件/`）封装进 `src/components/`**——IconButton（大/小/红色删除）/ AppButton（primary·panel·sidebar）/ AppSegmented（切换按钮大小两档）/ AppTag（属性标签）/ AppSwitch（34×18）/ AppCheckbox（14）/ AppRadio（20，弹出回弹 / 收回缓入）/ AppInput（小中大）/ AppSearchBar / KbdBadge（快捷键徽章）/ ToastStack（通知栏）/ TreeItem（root·child·archive·quick 四形态 + tint 自定义色）/ MenuItem / MenuDivider / SectionHeader（区块·分组标题）/ AppMenu（菜单容器）/ AppModal（standard·confirm·alert·plain 四形态——plain = 27_导入 纯标题型：无图标无徽章无 X、标题常态色，2026-08-12；**外框 1.5px 亮-选中 = 真 border**——2026-08-13 用户定：二级窗口外框统一真 border，盒模型内缩使悬浮滚轮贴边不压线，原 inset box-shadow 作废；定宽弹窗 width +3 补偿保持内容宽）；**遮罩点击一律不关闭**——2026-08-13 用户定案：所有模态框禁点空白退出防丢上下文，原 maskClose 机制连同导入链路的 mask-close=false 一并移除；**按钮组统一主左次右**（确认 / 删除 / 开启等主按钮在左、取消在右，2026-08-13 统一：App / LibraryView / FolderPickerDialog / LinkDialog / RecycleConfirmDialog 五处纠正））。旧体系组件文档与 `03_UI 布局/` 已于 2026-08-07 清除（git 历史可查）；本目录文档随组件重构逐份补写（figma-css 为准，md 只写 figma 没有的规则）。
 
 [[09_工具tip]]
 [[15_标签栏]]
